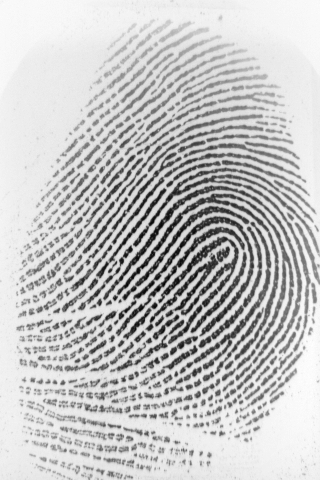
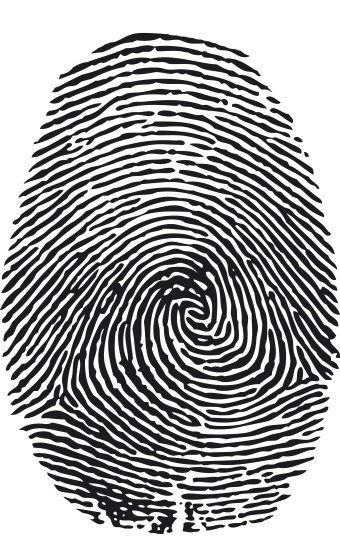
.

diff --git a/MainWindow.xaml b/MainWindow.xaml
@@ -18,6 +18,8 @@
             <Button Content="Otwórz" Margin="5" Padding="5" Click="Open_Click"/>
             <Button Content="Reset" Margin="5" Padding="5" Click="Reset_Click"/>
             <Button Content="Zapisz" Margin="5" Padding="5" Click="Save_Click"/>
+            <Button Content="Otsu"      Margin="5" Padding="5" Click="Otsu_Click"/>
+            
             <Button Content="K3M" Margin="5" Padding="5" Click="K3M_Click"/>
             <Button Content="KMM" Margin="5" Padding="5" Click="KMM_Click"/>
             <Button Content="Crossing Number" Margin="5" Padding="5" Click="CN_Click"/>
@@ -27,8 +29,6 @@
             <Label x:Name="CrossMin" Content="Crossing: "></Label>
             <!--<Button Content="Median"    Margin="5" Padding="5" Click="Median_Click"/>
             <Button Content="Sharpen"   Margin="5" Padding="5" Click="Sharpen_Click"/>
-            <Button Content="Otsu"      Margin="5" Padding="5" Click="Otsu_Click"/>
-            
             <Button Content="Threshold" Margin="5" Padding="5" Click="Threshold_Click"/>
             <Slider 
                 Minimum="0" 

diff --git a/MainWindow.xaml.cs b/MainWindow.xaml.cs
@@ -191,11 +191,11 @@ namespace WpfApp
 		//	this.MainImage.Source = CreateBitmapSource(bitmap);
 		//}
 
-		//private void Otsu_Click(object sender, RoutedEventArgs e)
-		//{
-		//	this.bitmap = Effects.Otsu(this.bitmap);
-		//	this.MainImage.Source = CreateBitmapSource(bitmap);
-		//}
+		private void Otsu_Click(object sender, RoutedEventArgs e)
+		{
+			this.bitmap = Effects.Otsu(this.bitmap);
+			this.MainImage.Source = CreateBitmapSource(bitmap);
+		}
 
 		//private void Reset_Click(object sender, RoutedEventArgs e)
 		//{
@@ -258,7 +258,7 @@ namespace WpfApp
 		}
 
 		private Bitmap bitmap;
-		private const string Filename = "finger4.png";
+		private string Filename = "finger4.png";
 
 		private void K3M_Click(object sender, RoutedEventArgs e)
 		{
@@ -281,7 +281,7 @@ namespace WpfApp
 			ShowMinutiaesCounter(false);
 			this.MainImage.Source = CreateBitmapSource(bitmap);
 		}
-
+		private int prevEnd, prevBif, prevCross;
 		private void ShowMinutiaesCounter(bool reset) //1-reset
 		{
 			if (reset)
@@ -295,6 +295,7 @@ namespace WpfApp
                 EndMin.Content = $"Ending: {mtEnding}";
                 BifMin.Content = $"Bifurcation: {mtBif}";
                 CrossMin.Content = $"Crossing: {mtCross}";
+				prevEnd = mtEnding; prevBif = mtBif;prevCross= mtCross;
             }
 		}
         private void Open_Click(object sender, RoutedEventArgs e)
@@ -306,6 +307,7 @@ namespace WpfApp
             {
 				this.bitmap= new Bitmap(openFileDialog.FileName);
 				this.MainImage.Source = CreateBitmapSource(bitmap);
+				Filename = openFileDialog.FileName;
 
             }
             ShowMinutiaesCounter(true);
